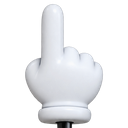
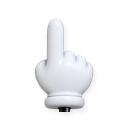
chore: prepare 1.0.0 for the Chrome Web Store
Drops activeTab, which <all_urls> already covers, and serves web-accessible files through dynamic URLs so sites can't probe for the extension. The Settings page now loads the content script, so the hand shows there, with a practice area for drawing and slapping, and it opens on first install. Reduce Motion skips the slap's swing and flight. The popup and Settings credit TinyHand and Kamran Ahmed and point Mac users to the app. Icons follow the store's 96-in-128 guideline. SVG documents get no overlay.

Changed region(s): [[0.1875, 0.0312, 0.8125, 1.0], [0.4688, 0.0625, 0.5, 0.1875]]

diff --git a/content.js b/content.js
@@ -10,6 +10,10 @@
 
 const IS_TOP = window === window.top;
 const MESSAGE_KEY = '__tinyhand';
+// The Settings page loads this script too, so you can try the hand there.
+// Extension pages can't take inserted CSS and have no chrome.dom.
+const IS_EXTENSION_PAGE = location.protocol === 'chrome-extension:';
+const reducedMotion = window.matchMedia?.('(prefers-reduced-motion: reduce)');
 
 // TinyHand's numbers (ArmView.swift), as fractions of the screen height.
 const GRIP_DEPTH = 0.12; // the stick is held this far below the bottom edge
@@ -111,7 +115,19 @@ function setStyles(css) {
   if (css === insertedCss) return;
   const previous = insertedCss;
   insertedCss = css;
+  if (IS_EXTENSION_PAGE) {
+    pageStyle ??= document.createElement('style');
+    pageStyle.textContent = css || '';
+    if (!pageStyle.isConnected) document.documentElement.append(pageStyle);
+    return;
+  }
   chrome.runtime.sendMessage({ action: 'setCursorCss', css, previous });
+}
+
+let pageStyle = null;
+
+function openOrClosedShadowRoot(el) {
+  return el.shadowRoot || chrome.dom?.openOrClosedShadowRoot(el) || null;
 }
 
 const HIDE_CSS = ':root, :root * { cursor: none !important; }';
@@ -136,7 +152,7 @@ const shadowObserver = new MutationObserver((records) => {
 function scannedShadowRoot(el) {
   if (el.shadowRoot) return el.shadowRoot;
   if (el.localName.includes('-') && el instanceof HTMLElement && el !== overlay.host) {
-    return chrome.dom.openOrClosedShadowRoot(el);
+    return openOrClosedShadowRoot(el);
   }
   return null;
 }
@@ -225,6 +241,8 @@ function createOverlay() {
 }
 
 function mountOverlay() {
+  // SVG and other XML documents can't host the custom element.
+  if (!(document.documentElement instanceof HTMLElement)) return;
   if (!overlay.host) createOverlay();
   const host = overlay.host;
   if (!host.isConnected) {
@@ -551,6 +569,10 @@ const easeIn = (k) => k * k * k;
 function slapPose(now) {
   const rest = { swing: 0, scale: 1, press: 0, active: false };
   if (!overlay.slap) return rest;
+  if (reducedMotion?.matches) {
+    overlay.slap = null;
+    return rest;
+  }
   const t = now - overlay.slap.start;
   if (t >= SLAP_END_MS) {
     overlay.slap = null;
@@ -785,7 +807,7 @@ document.addEventListener('pointerout', (event) => {
 window.addEventListener('pointerover', (event) => {
   if (!watchingShadowRoots) return;
   for (const node of event.composedPath()) {
-    if (node instanceof HTMLElement && node !== overlay.host) adoptShadowRoot(chrome.dom.openOrClosedShadowRoot(node));
+    if (node instanceof HTMLElement && node !== overlay.host) adoptShadowRoot(openOrClosedShadowRoot(node));
   }
 }, true);
 
@@ -846,7 +868,7 @@ for (const type of ['mousedown', 'mouseup', 'click', 'dblclick', 'auxclick']) {
 function deepElementFromPoint(x, y) {
   let el = document.elementFromPoint(x, y);
   for (let depth = 0; el && depth < 32; depth++) {
-    const root = el.shadowRoot || (el.localName.includes('-') && el instanceof HTMLElement ? chrome.dom.openOrClosedShadowRoot(el) : null);
+    const root = el.shadowRoot || (el.localName.includes('-') && el instanceof HTMLElement ? openOrClosedShadowRoot(el) : null);
     const inner = root?.elementFromPoint(x, y);
     if (!inner || inner === el) break;
     el = inner;
@@ -904,15 +926,18 @@ function slapAt(x, y) {
 }
 
 // Knocked away to the left, the way the swing goes, then hidden.
+// With Reduce Motion on, it just fades.
 function knockOff(el) {
   slapped.push({ el, display: saveProp(el, 'display') });
   const rect = el.getBoundingClientRect();
   const dx = -(rect.right + 120);
-  const animation = el.animate([
-    { transform: 'none', opacity: 1 },
-    { transform: `translate(${dx * 0.35}px, -30px) rotate(-10deg)`, opacity: 1, offset: 0.25 },
-    { transform: `translate(${dx}px, -90px) rotate(-32deg) scale(0.6)`, opacity: 0 },
-  ], { duration: 520, easing: 'cubic-bezier(0.2, 0.7, 0.4, 1)', fill: 'forwards' });
+  const animation = reducedMotion?.matches
+    ? el.animate([{ opacity: 1 }, { opacity: 0 }], { duration: 160, fill: 'forwards' })
+    : el.animate([
+      { transform: 'none', opacity: 1 },
+      { transform: `translate(${dx * 0.35}px, -30px) rotate(-10deg)`, opacity: 1, offset: 0.25 },
+      { transform: `translate(${dx}px, -90px) rotate(-32deg) scale(0.6)`, opacity: 0 },
+    ], { duration: 520, easing: 'cubic-bezier(0.2, 0.7, 0.4, 1)', fill: 'forwards' });
   const hide = () => {
     el.style.setProperty('display', 'none', 'important');
     animation.cancel();

diff --git a/options/options.html b/options/options.html
@@ -5,6 +5,7 @@
   <title>TinyHand Settings</title>
   <link rel="stylesheet" href="../shared/ui.css">
   <link rel="stylesheet" href="options.css">
+  <script src="../content.js"></script>
 </head>
 <body>
   <main>
@@ -15,6 +16,23 @@
         <p class="muted">A tiny hand on a stick that points at things on any website.</p>
       </div>
     </header>
+
+    <h2>Try it here</h2>
+    <section class="card practice">
+      <div class="stage">
+        <div class="note" style="--tilt: -3deg">Point at me</div>
+        <div class="note" style="--tilt: 2deg">Slap me away</div>
+        <div class="note" style="--tilt: -1deg">Draw an arrow to me</div>
+      </div>
+      <div class="keys">
+        <span><kbd>Shift</kbd> drag to draw</span>
+        <span><kbd>⌘</kbd> while drawing for an arrow</span>
+        <span><kbd>Esc</kbd> clears</span>
+        <span><kbd>⌥</kbd> click to slap</span>
+        <span><kbd>⌥</kbd><kbd>Z</kbd> brings it back</span>
+        <button type="button" class="link" id="reset-practice">Reset</button>
+      </div>
+    </section>
 
     <h2>Pointer</h2>
     <section class="card" id="general"></section>
@@ -40,8 +58,9 @@
 
     <h2>About</h2>
     <section class="card about">
-      <p>The hands and tap sounds are from <a href="https://github.com/nilbuild/tinyhand" target="_blank" rel="noopener">TinyHand</a> by Kamran Ahmed, a Mac app, used under its MIT license. Hiding the cursor follows <a href="https://github.com/lihbr/purrsor" target="_blank" rel="noopener">Purrsor</a> by Lucie Haberer, also MIT.</p>
-      <p class="muted">The hand doesn't show on browser pages like this one, the new tab page or the Chrome Web Store, where extensions can't run.</p>
+      <p>This is a port of <a href="https://tinyhand.app" target="_blank" rel="noopener">TinyHand</a>, a free Mac app by <a href="https://kamran.fyi" target="_blank" rel="noopener">Kamran Ahmed</a>. The hands, the tap sounds and the way the hand moves are his, used under TinyHand's <a href="https://github.com/nilbuild/tinyhand/blob/main/LICENSE" target="_blank" rel="noopener">MIT license</a>. If you're on a Mac, get the app: it works everywhere, not only in the browser.</p>
+      <p>Hiding the cursor on every site follows <a href="https://github.com/lihbr/purrsor" target="_blank" rel="noopener">Purrsor</a> by Lucie Haberer, also MIT.</p>
+      <p class="muted">The hand doesn't show on browser pages such as the new tab page, <code>chrome://</code> pages or the Chrome Web Store, where extensions can't run. It collects nothing and makes no network requests.</p>
     </section>
   </main>
   <script type="module" src="options.js"></script>

diff --git a/options/options.css b/options/options.css
@@ -37,3 +37,46 @@ body.off #appearance,
 body.off #sound,
 body.off #draw,
 body.off #slap { opacity: 0.45; }
+
+.practice { padding: 12px; }
+
+.stage {
+  display: flex;
+  gap: 16px;
+  justify-content: center;
+  align-items: center;
+  flex-wrap: wrap;
+  min-height: 190px;
+  padding: 24px;
+  border-radius: 8px;
+  background: radial-gradient(var(--line) 1px, transparent 1px) 0 0 / 14px 14px;
+}
+
+.note {
+  width: 132px;
+  padding: 18px 14px;
+  border-radius: 4px;
+  background: #fff4b8;
+  color: #3d3520;
+  font-weight: 500;
+  text-align: center;
+  box-shadow: 0 1px 2px rgba(0, 0, 0, 0.12), 0 6px 14px rgba(0, 0, 0, 0.08);
+  transform: rotate(var(--tilt, 0deg));
+}
+
+.note:nth-child(2) { background: #ffd9e6; color: #4a2433; }
+.note:nth-child(3) { background: #d7ecff; color: #1e3550; }
+
+.keys {
+  display: flex;
+  flex-wrap: wrap;
+  gap: 6px 16px;
+  align-items: center;
+  padding: 10px 4px 2px;
+  font-size: 12px;
+  color: var(--muted);
+}
+
+.keys .link { margin-left: auto; font-size: 12px; }
+
+code { font: 12px ui-monospace, SFMono-Regular, Menlo, monospace; }

diff --git a/background.js b/background.js
@@ -11,6 +11,8 @@ chrome.runtime.onInstalled.addListener(async ({ reason, previousVersion }) => {
   if (reason === 'update' && previousVersion === '0.1.0') delete stored.size;
   await chrome.storage.local.set({ ...DEFAULTS, ...stored });
   await chrome.storage.local.remove('cursors');
+  // The Settings page shows the hand and has a place to try drawing and slapping.
+  if (reason === 'install') chrome.runtime.openOptionsPage();
 });
 
 chrome.storage.onChanged.addListener((changes, area) => {

diff --git a/options/options.js b/options/options.js
@@ -2,6 +2,8 @@ import { el, fadePicker, inkPicker, readSettings, save, sizePicker, soundPicker,
 
 const settings = await readSettings();
 
+document.getElementById('reset-practice').addEventListener('click', () => location.reload());
+
 const enabled = switchRow('Show the hand', 'enabled', settings, 'Replaces the cursor on every site.');
 document.getElementById('general').append(enabled.row);
 

diff --git a/popup/popup.html b/popup/popup.html
@@ -22,6 +22,7 @@
     <span class="muted" id="shortcut"></span>
     <button type="button" class="link" id="settings">Settings</button>
   </footer>
+  <p class="credit">Based on <a href="https://tinyhand.app" target="_blank" rel="noopener">TinyHand</a> by Kamran Ahmed</p>
   <script type="module" src="popup.js"></script>
 </body>
 </html>

diff --git a/popup/popup.css b/popup/popup.css
@@ -20,6 +20,15 @@ footer {
   display: flex;
   justify-content: space-between;
   align-items: center;
-  padding: 10px 14px 12px;
+  padding: 10px 14px 4px;
   font-size: 12px;
 }
+
+.credit {
+  margin: 0;
+  padding: 0 14px 12px;
+  font-size: 11px;
+  color: var(--muted);
+}
+
+.credit a { color: inherit; }
